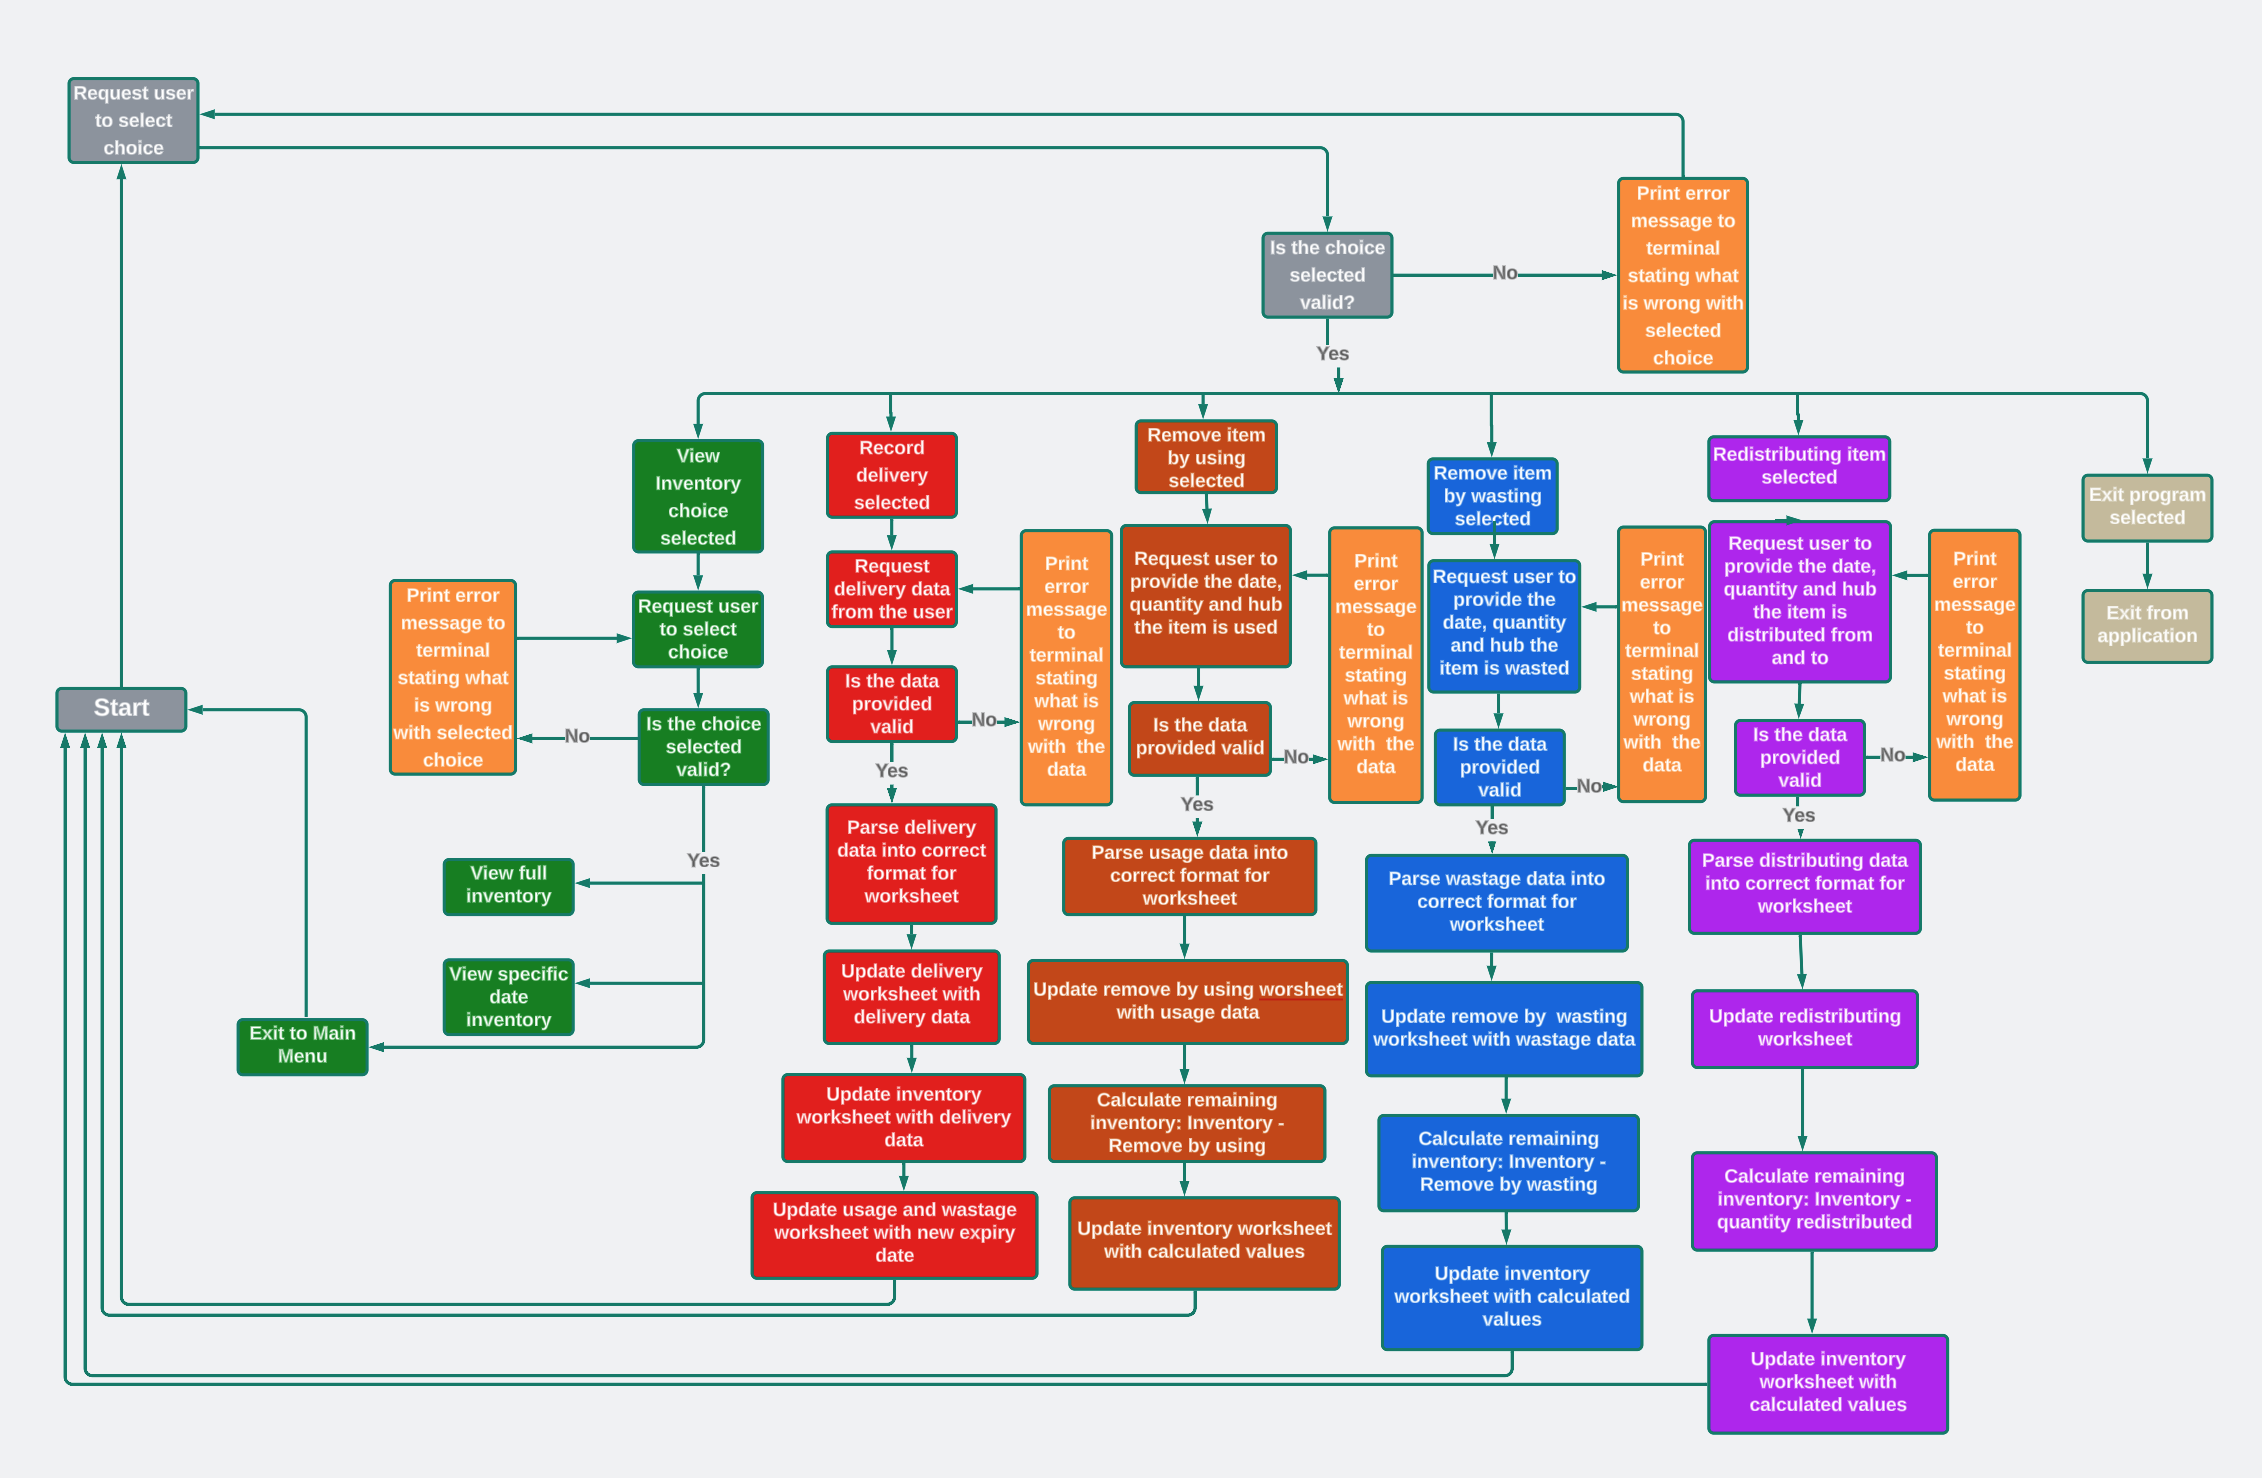
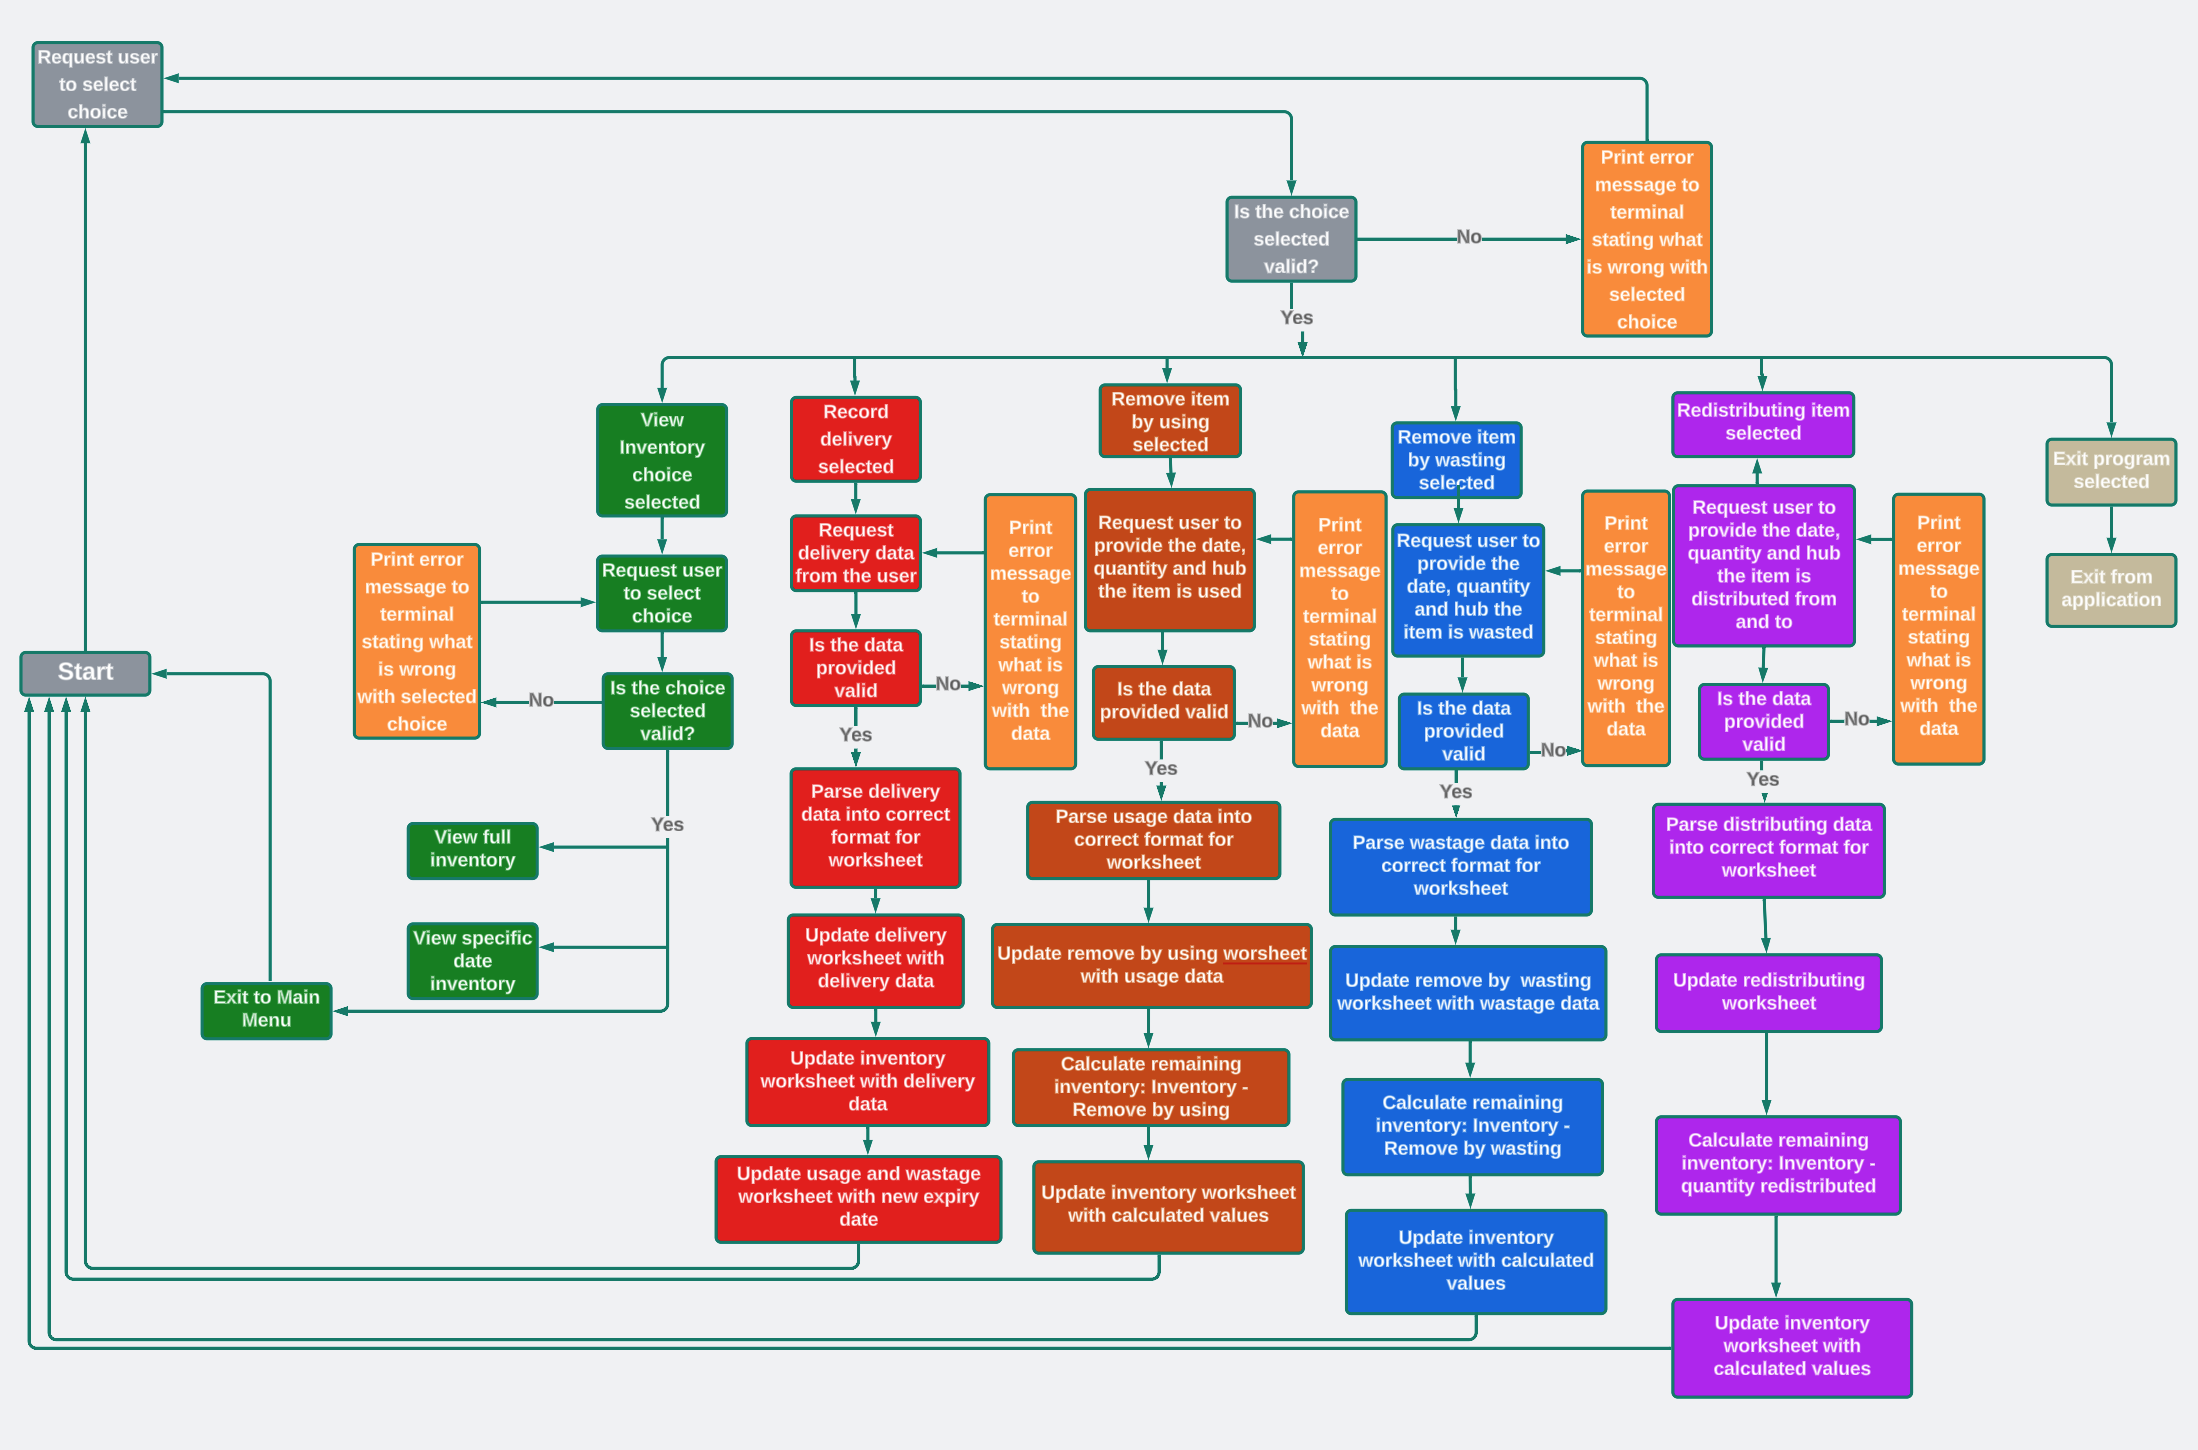
Replace flowchart image with better one

Changed region(s): [[0.0, 0.031, 0.99, 0.9931]]

diff --git a/README.md b/README.md
@@ -48,3 +48,12 @@ Through Milk Waste Management Application, user can view milk inventory data rec
 ## User Experience (UX)
 
 The application provided user with clear introduction of the idea behind the design of the application with main menu and instruction to what action should be taken to proceed. Once user selected an action the application will display data or request data as appropriate. The data is displayed in a format that is very easy to understand by the user. The data provided by user is validate with several methods to ensure data provided is valid and of correct format and pattern. The application notify user every time a task is perform successfully and what worksheet has been updated. It is a very simple yet highly capable application to help simplify milk waste management process. 
+
+### User Stories
+
+* First-time visitor goals
+    * Understand how to use the application. Clear introduction and instructions are given. Understand the valid format of data be requested through understanding displayed error messages.
+    * Use the application. Once the user understands the application, they will likely want to use it.
+    * Enjoy the experience. The application should be simple and beneficial to the user. 
+
+* 
